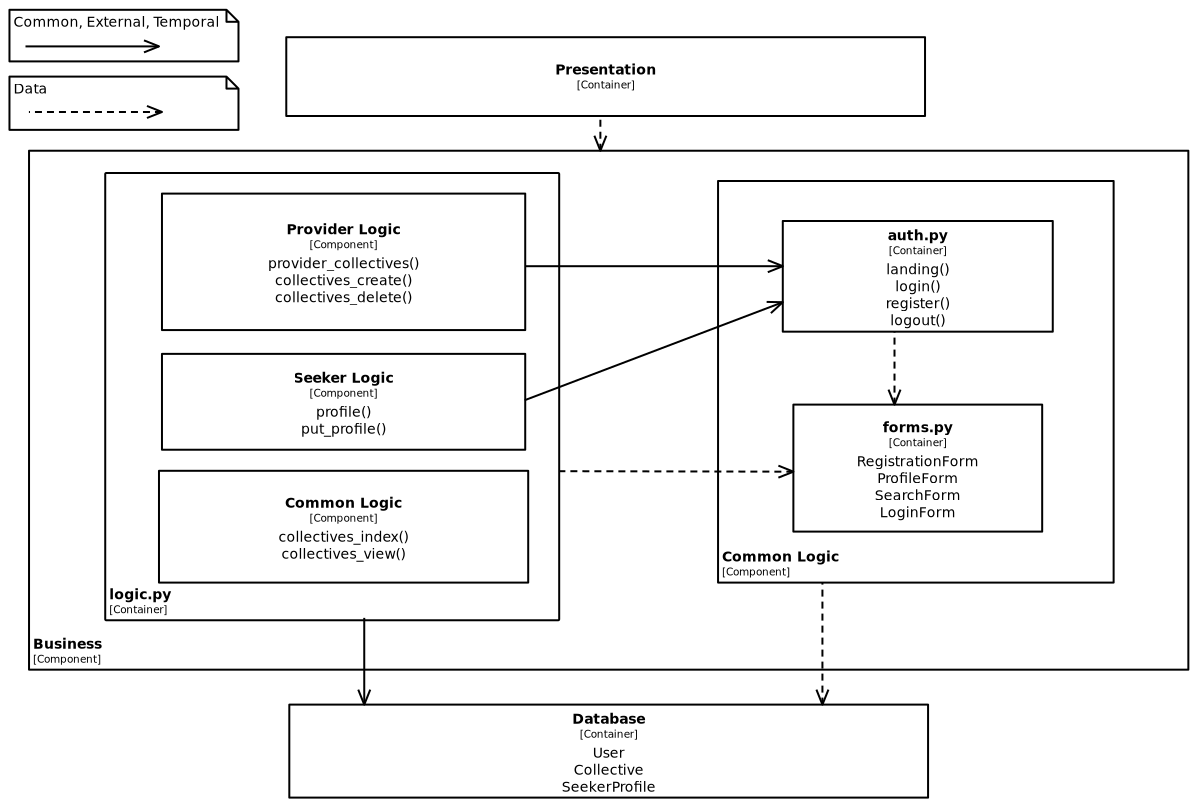
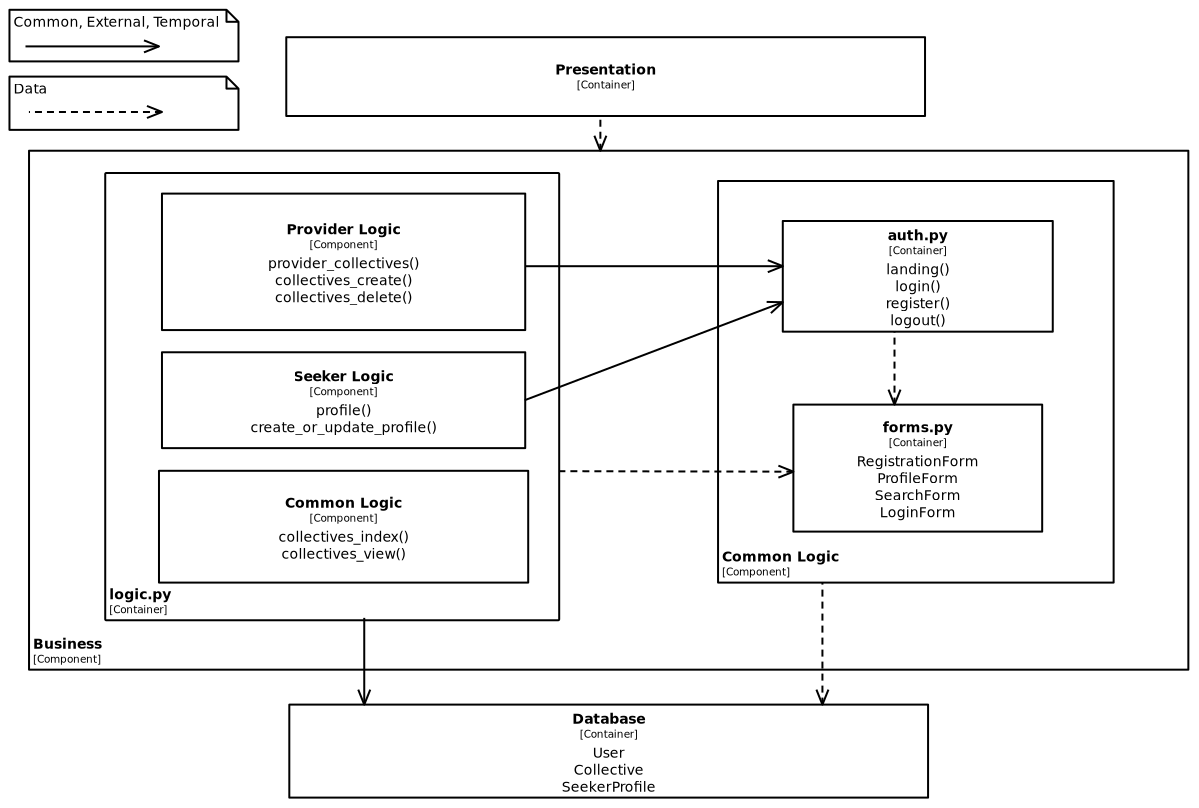
Små ændringer part 1,2

Changed region(s): [[0.1234, 0.4332, 0.432, 0.5569]]

diff --git a/report/2_task-1.tex b/report/2_task-1.tex
@@ -4,17 +4,17 @@
 % overvej at beskrive blueprint? nok ikke nødvendigt?
 
 The section will provide a high-level overview of our codebase for the monolithic implementation, and try to map the concrete components to the functionality of our service. 
-It also serves to introduce and document the degree of cohesion and coupling throughout the monolithic system.
+It also serves to introduce and document the degree of cohesion and coupling between the componenets. The section is accompagnied by two diagrams, that we will refer to when relevant (Figure \ref{fig:container_monolith}, Figure \ref{fig:zoom_in_monolith}).
 
 \subsection{Overview}
 
-Our monolith follows a 1-tier layered approach, a modular monolith, deployed as a single unit thorugh the \verb|__init__| initialization of the Flask Blueprint framework. The unit is deployed via a a single Docker container, and can be ran following the instructions in the \verb|README.md| file. 
-A monolith is a sensible starting point for a software project of our scope, and the main advantage is that we are avoiding the unnecessary complexity of distributed parts. For example that the communication of each layer can be done in a single process, simplifying our development flow and iteration cycles. 
+Our monolith follows a 1-tier layered approach, a modular monolith, deployed as a single unit thruogh the \verb|__init__| initialization of the Flask Blueprint framework. The unit is deployed via a a single Docker container, and can be ran following the instructions in the \verb|README.md| file. 
+A monolith is a sensible starting point for a software project of our scope, and the main advantage is that we are avoiding the unnecessary complexity of distributed parts. The communication of each layer can be done in a single process, simplifying our development flow and iteration cycles. 
 We decided to value a fast and easy deployment over a, on paper, more fault tolerant and scalable tiered approach. Each module can communicate directly with one another through direct imports. Representing the organisation of the code in multiple modules is also a good starting point for the later microservice evolution. 
 
 The monolith is logically organized in layers; each layer with its own responsibility. This means, that we utilize a one-way communication from the Presentation Layer, to the Business Logic Layer and the Database Layer.
 Importantly, we can partition each layer of our system into three subcategories based on their relation to the problem domain of Seekers, Providers or Anonymous users (Figure \ref{fig:container_monolith}). 
-Each subcategory within a layer is responsible for the domain driven functionality of that particular layer. This means, that even though we have grouped our system in horizontal layers, each subcategory of an upper layer is dependent on the components of the same subcategory of the layer below. Making any changes to the system therefore requires attention and often manipulation of all three layers, as the problem domain, represented by a subcategory of components, has to be present in all layers. 
+Each subcategory within a layer is responsible for the domain driven functionality of that particular layer. This means, that even though we have grouped our system in horizontal layers, each subcategory of an upper layer is dependent on the components of the same subcategory of the layer below. Making any changes to the system therefore requires attention and often manipulation of all three layers, as some aspect of the problem domain, represented by a subcategory of components, has to be present in all layers. 
 
 \subsection{Layers, Components and Dependencies}
 
@@ -36,9 +36,9 @@ The possibility of delegating the actual implementation of the authorization to 
 All modules and subcategories in the business layer is dependent on the \verb|forms.py| in order achieve their respective interaction with the user, however, each form is independent from eachother, so we could also have stored the relevant form inside of the relevant logic. It therefore maintains a pure data coupling.
 
 The Database layer consists of the storage of domain entities in \verb|model.py|, which are the \verb|Collective|, \verb|User|, and the \verb|SeekerProfile| classes. 
-Many methods in the Business Layer directly manipulates the data, such as \verb|create_or_update_profile()|.
+Many methods in the Business Layer directly manipulates the data, such as \verb|create_or_update_profile()| in the Seeker Logic.
 The Business Layer is therefore externally coupled with the Database Layer, as manipulation is an Object-Relational Mapping achieved via SQLAlchemy that directly affects the persistant stored data, with the methods using the entire composite data structures.
-\verb|images.py| has the responsibility of providng image handling capabilities, and can coupling wise be considered as part of the \verb|model.py|.
+\verb|images.py| has the responsibility of providng image handling capabilities, and can coupling wise be considered as part of the \verb|model.py| Database layer.
 
 Overall, the monolith version represents an easy to build ... \textbf{UDDYB}.
 However, the disadvantages of the monolithic layered approach comes from the higher degree of coupling between select parts of the system. While the Presentation layer only is coupled through data links, the internal coupling between components of the Business Layer, and the coupling of the Business Layer with the Database Layer remains somewhat high 

diff --git a/report/1_application.tex b/report/1_application.tex
@@ -14,7 +14,7 @@ network of family and friends, along with browsing social media groups and posts
 Our web service, ''Kollektivportalen.dk'' aims to solve this problem by providing a portal for matching seekers with providers of collectives.
 The goal of our service is to provide an intuitive interface for both parties, that allows seekers to easily discover and 
 find collectives that suit their preferences and providers to easily advertise their collectives and find suitable residents.
-By gathering all relevant information on one place, our service provides a more structured and organized process of matching seekers and collectives.
+By gathering all relevant information in one place, our service provides a more structured and organized process of matching seekers and collectives.
 The implementation has been carried out in the spirit of considering how we realistically would solve such a problem and acts as a prototype for our Innovation Project.
 
 
@@ -105,9 +105,8 @@ but also clearly see the profile data of the seeker. This is an important part o
 as each collective traditionally has their own distinctive procedure for deciding upon new members. 
 Each collective is free to decide on this procedure outside of our service, but
 we would aspire to ease this procedure by centralizing the receival of applications and providing details through the seeker's profile data.
-
 Another important unimplemented feature would be the possibility to mark collectives as "idle", if it is currently not seeking new members, 
-but still want to exist in our database. This information should be clearly visible the other users.
+but still want to exist in our database. This information should be clearly visible to the other users.
 
 
 %\subsubsection{Authentication and session management}
